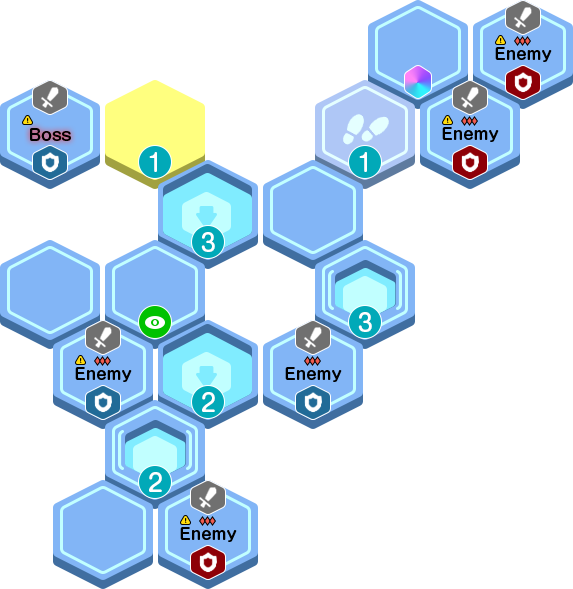
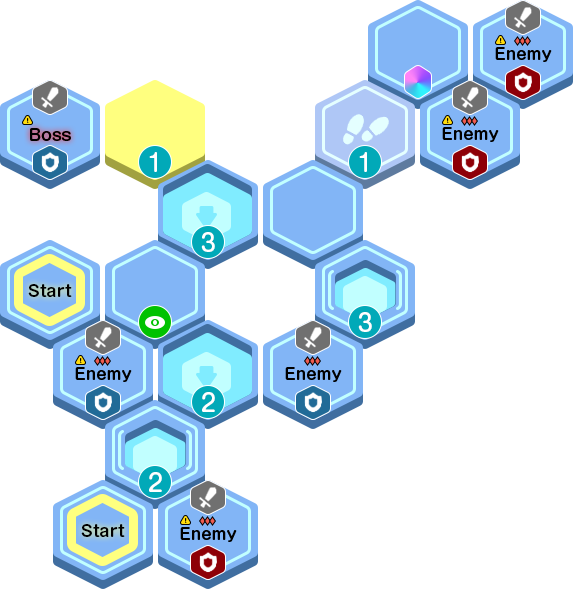
Fix missing Start tiles

Changed region(s): [[0.0, 0.4278, 0.1483, 0.5501], [0.1187, 0.8251, 0.267, 0.9779]]

diff --git a/maputil.py b/maputil.py
@@ -38,7 +38,7 @@ def get_enemy_infos(map, data):
 
 def get_start_tiles(strategies):
     for location, strategy in strategies:
-        if strategy['StrategyObjectType'] == 'Start':
+        if strategy['StrategyObjectType'] in ['Start', 'FixedStart01', 'FixedStart02', 'FixedStart03', 'FixedStart04']:
             yield location
 
 
